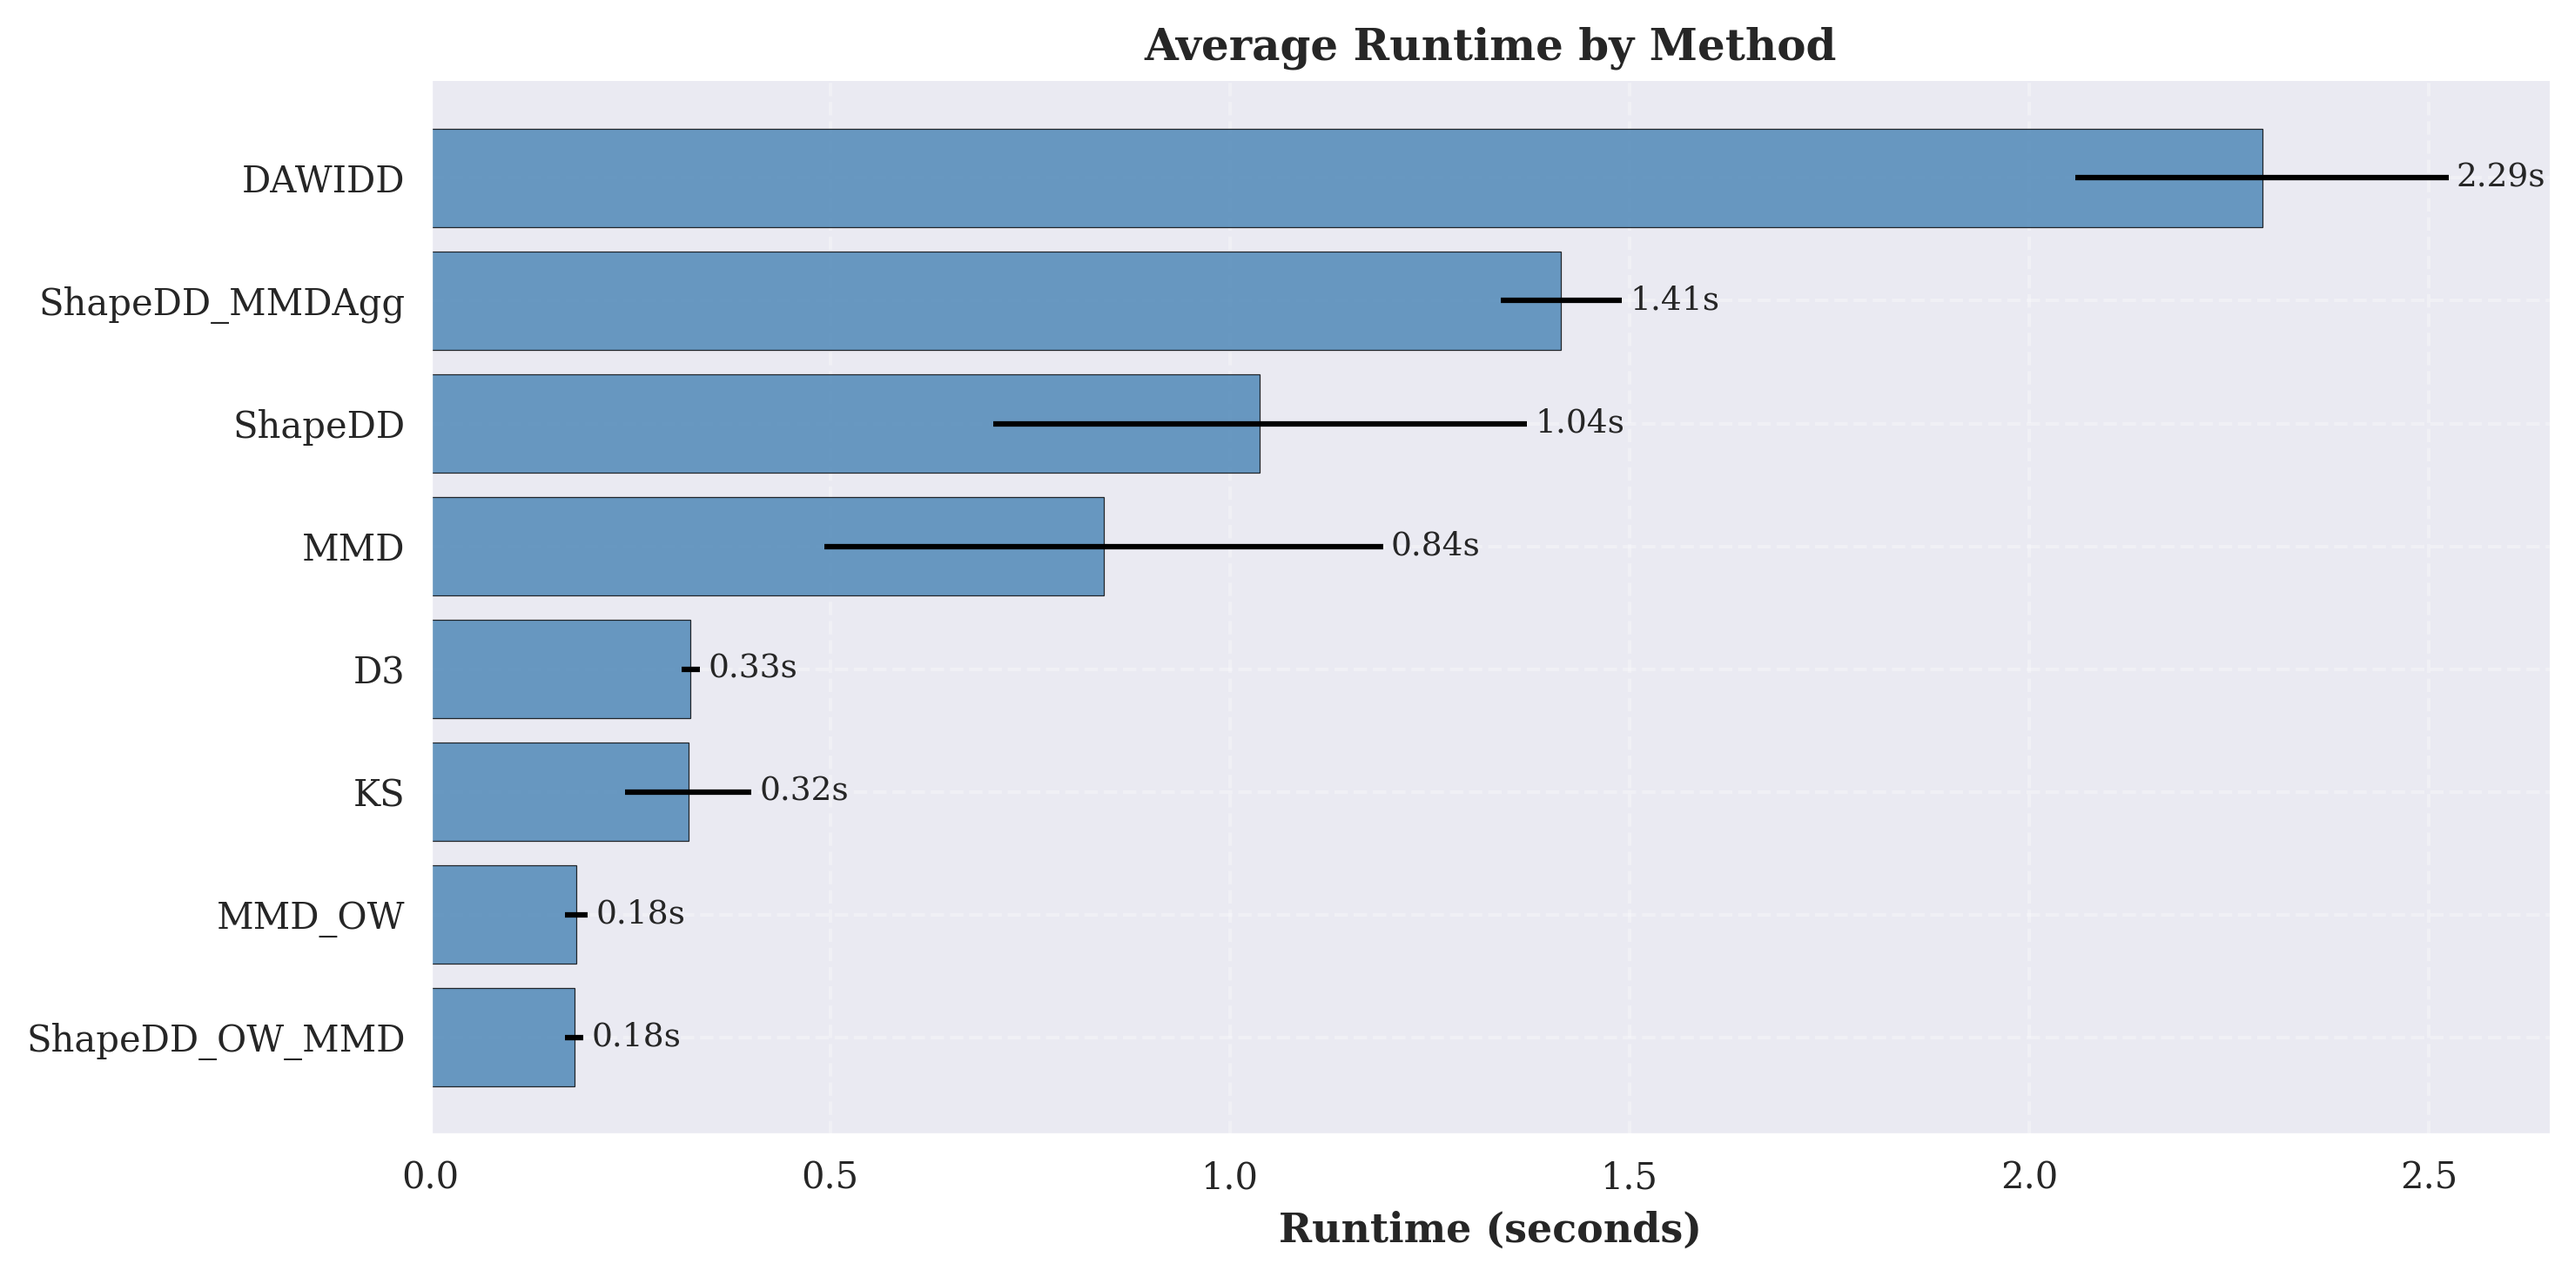
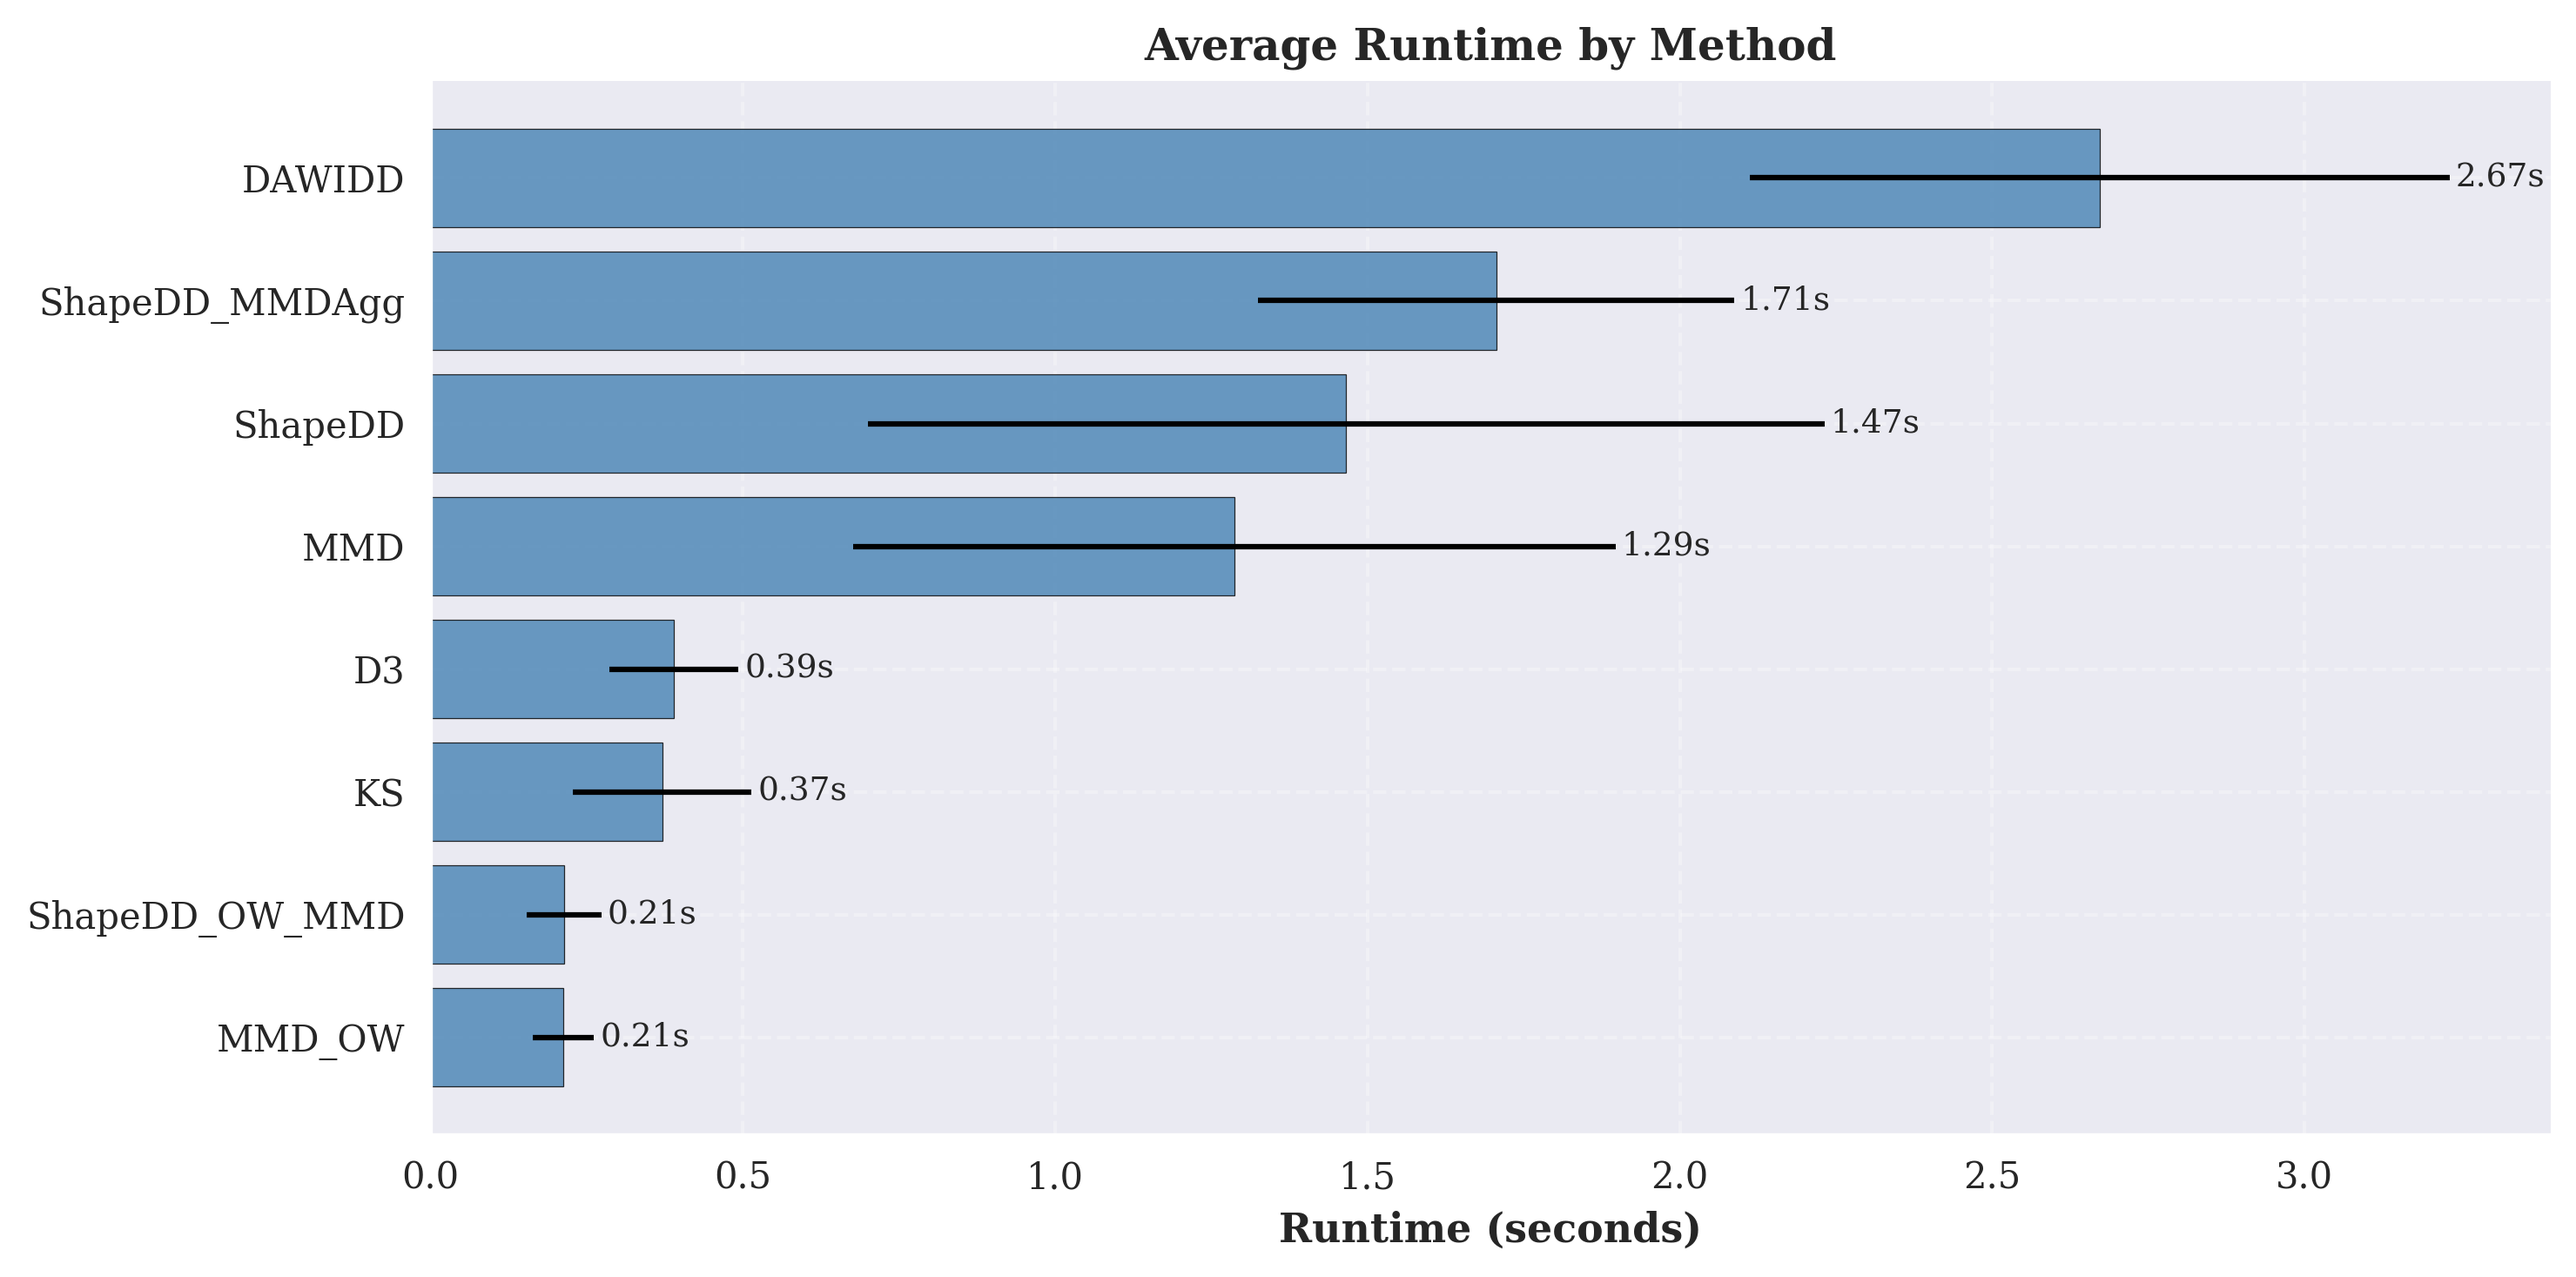
docs: update latest results for performance benchmarks

diff --git a/experiments/drift_detection_benchmark/publication_figures/table_II_f1_by_dataset.tex b/experiments/drift_detection_benchmark/publication_figures/table_II_f1_by_dataset.tex
@@ -1,19 +1,19 @@
 \begin{table}[htbp]
 \caption{F1-Score by method and dataset. Best scores per column are shown in \textbf{bold}. Methods ranked by mean F1-Score.}
 \label{tab:f1_by_dataset}
-\begin{tabular}{clcccccccccc}
+\begin{tabular}{clccccccccccc}
 \toprule
-Dataset & Rank & gaussian_shift_moderate & gen_random_mild & gen_random_moderate & gen_random_severe & gen_random_ultra_severe & led_abrupt & rbf_slow & rbfblips & stagger & Mean \\
-Method &  &  &  &  &  &  &  &  &  &  &  \\
+Dataset & Rank & gaussian_shift_moderate & gen_random_mild & gen_random_moderate & gen_random_severe & gen_random_ultra_severe & hyperplane & led_abrupt & rbfblips & stagger & standard_sea & Mean \\
+Method &  &  &  &  &  &  &  &  &  &  &  &  \\
 \midrule
-MMD_OW & 1 & \textbf{0.998} & 0.126 & \textbf{0.830} & 0.876 & 0.907 & 0.063 & 0.000 & 0.956 & 0.998 & \textbf{0.639} \\
-ShapeDD_OW_MMD & 2 & 0.980 & 0.121 & 0.772 & 0.899 & 0.892 & 0.026 & 0.000 & 0.920 & 0.994 & 0.623 \\
-D3 & 3 & \textbf{0.998} & 0.012 & 0.249 & 0.959 & 0.959 & 0.000 & 0.000 & \textbf{1.000} & 0.998 & 0.575 \\
-ShapeDD_MMDAgg & 4 & 0.924 & 0.000 & 0.154 & \textbf{0.973} & \textbf{0.971} & 0.000 & 0.000 & \textbf{1.000} & \textbf{1.000} & 0.558 \\
-MMD & 5 & 0.627 & 0.576 & 0.674 & 0.591 & 0.578 & 0.122 & 0.138 & 0.602 & 0.639 & 0.505 \\
-DAWIDD & 6 & 0.590 & \textbf{0.594} & 0.658 & 0.583 & 0.576 & 0.140 & 0.135 & 0.570 & 0.583 & 0.492 \\
-ShapeDD & 7 & 0.595 & 0.534 & 0.590 & 0.528 & 0.519 & \textbf{0.167} & 0.156 & 0.553 & 0.582 & 0.469 \\
-KS & 8 & 0.294 & 0.337 & 0.402 & 0.385 & 0.385 & 0.073 & \textbf{0.217} & 0.301 & 0.389 & 0.309 \\
+MMD_OW & 1 & \textbf{0.998} & 0.126 & \textbf{0.830} & 0.876 & 0.907 & 0.000 & 0.063 & 0.956 & 0.998 & 0.000 & \textbf{0.575} \\
+ShapeDD_OW_MMD & 2 & 0.980 & 0.121 & 0.772 & 0.899 & 0.892 & 0.000 & 0.026 & 0.920 & 0.994 & 0.012 & 0.562 \\
+D3 & 3 & \textbf{0.998} & 0.012 & 0.249 & 0.959 & 0.959 & 0.000 & 0.000 & \textbf{1.000} & 0.998 & 0.000 & 0.518 \\
+ShapeDD_MMDAgg & 4 & 0.924 & 0.000 & 0.154 & \textbf{0.973} & \textbf{0.971} & 0.067 & 0.000 & \textbf{1.000} & \textbf{1.000} & 0.000 & 0.509 \\
+MMD & 5 & 0.629 & 0.581 & 0.672 & 0.590 & 0.577 & 0.184 & 0.118 & 0.604 & 0.639 & 0.157 & 0.475 \\
+DAWIDD & 6 & 0.592 & \textbf{0.598} & 0.664 & 0.584 & 0.577 & 0.141 & 0.145 & 0.570 & 0.585 & 0.141 & 0.460 \\
+ShapeDD & 7 & 0.597 & 0.531 & 0.588 & 0.526 & 0.517 & 0.196 & \textbf{0.171} & 0.553 & 0.581 & 0.145 & 0.440 \\
+KS & 8 & 0.294 & 0.337 & 0.402 & 0.385 & 0.385 & \textbf{0.224} & 0.073 & 0.301 & 0.389 & \textbf{0.200} & 0.299 \\
 \bottomrule
 \end{tabular}
 \end{table}

diff --git a/experiments/drift_detection_benchmark/publication_figures/table_I_comprehensive_performance.tex b/experiments/drift_detection_benchmark/publication_figures/table_I_comprehensive_performance.tex
@@ -5,14 +5,14 @@
 \toprule
 Rank & Method & F1 ($\mu \pm \sigma$) & Precision & Recall & MTTD & TP & FP & FN \\
 \midrule
-1 & MMD_OW & $\mathbf{0.639 \pm 0.419}$ & \textbf{0.696} & 0.643 & 23.000 & 1735 & 222 & 965 \\
-2 & ShapeDD_OW_MMD & $0.623 \pm 0.417$ & 0.683 & 0.616 & 20.000 & 1664 & 199 & 1036 \\
-3 & D3 & $0.575 \pm 0.466$ & 0.656 & 0.556 & \textbf{14.000} & 1501 & 0 & 1199 \\
-4 & ShapeDD_MMDAgg & $0.558 \pm 0.471$ & 0.610 & 0.555 & 18.000 & 1499 & 54 & 1201 \\
-5 & MMD & $0.505 \pm 0.219$ & 0.387 & 0.768 & 31.000 & 2074 & 2959 & 626 \\
-6 & DAWIDD & $0.492 \pm 0.207$ & 0.374 & 0.771 & 33.000 & 2081 & 3167 & 619 \\
-7 & ShapeDD & $0.469 \pm 0.183$ & 0.340 & 0.788 & 31.000 & 2127 & 3867 & 573 \\
-8 & KS & $0.309 \pm 0.112$ & 0.202 & \textbf{0.821} & 29.000 & 2217 & 8801 & 483 \\
+1 & MMD_OW & $\mathbf{0.576 \pm 0.442}$ & \textbf{0.627} & 0.578 & 23.000 & 1735 & 222 & 1265 \\
+2 & ShapeDD_OW_MMD & $0.562 \pm 0.436$ & 0.620 & 0.555 & 20.000 & 1666 & 216 & 1334 \\
+3 & D3 & $0.517 \pm 0.475$ & 0.590 & 0.500 & \textbf{14.000} & 1501 & 0 & 1499 \\
+4 & ShapeDD_MMDAgg & $0.509 \pm 0.472$ & 0.562 & 0.504 & 19.000 & 1513 & 106 & 1487 \\
+5 & MMD & $0.475 \pm 0.229$ & 0.368 & 0.713 & 32.000 & 2139 & 3226 & 861 \\
+6 & DAWIDD & $0.460 \pm 0.222$ & 0.352 & 0.710 & 34.000 & 2130 & 3421 & 870 \\
+7 & ShapeDD & $0.440 \pm 0.196$ & 0.322 & 0.731 & 31.000 & 2193 & 4195 & 807 \\
+8 & KS & $0.299 \pm 0.114$ & 0.197 & \textbf{0.775} & 29.000 & 2326 & 9397 & 674 \\
 \bottomrule
 \end{tabular}
 \end{table}

diff --git a/experiments/drift_detection_benchmark/publication_figures/table_III_runtime_stats.tex b/experiments/drift_detection_benchmark/publication_figures/table_III_runtime_stats.tex
@@ -6,14 +6,14 @@
  & Mean (s) & Std (s) & Min (s) & Max (s) & Throughput (samples/s) \\
 Method &  &  &  &  &  \\
 \midrule
-ShapeDD_OW_MMD & 0.179700 & 0.011400 & 0.156200 & 0.251800 & 55648 \\
-MMD_OW & 0.182300 & 0.014300 & 0.154700 & 0.257700 & 54855 \\
-KS & 0.322400 & 0.078700 & 0.230800 & 0.536900 & 31017 \\
-D3 & 0.325300 & 0.011700 & 0.307400 & 0.396100 & 30741 \\
-MMD & 0.842200 & 0.349300 & 0.356900 & 2.391700 & 11874 \\
-ShapeDD & 1.037600 & 0.334000 & 0.468400 & 2.802400 & 9638 \\
-ShapeDD_MMDAgg & 1.414500 & 0.075600 & 1.285200 & 1.794700 & 7070 \\
-DAWIDD & 2.291500 & 0.233300 & 1.932500 & 4.245200 & 4364 \\
+MMD_OW & 0.212700 & 0.048700 & 0.156900 & 0.376500 & 47015 \\
+ShapeDD_OW_MMD & 0.213800 & 0.059500 & 0.153700 & 0.469000 & 46773 \\
+KS & 0.371000 & 0.143000 & 0.180000 & 1.085700 & 26954 \\
+D3 & 0.389200 & 0.103500 & 0.305700 & 0.957300 & 25694 \\
+MMD & 1.286300 & 0.610500 & 0.350800 & 4.692500 & 7774 \\
+ShapeDD & 1.465500 & 0.766000 & 0.506800 & 5.929100 & 6824 \\
+ShapeDD_MMDAgg & 1.706000 & 0.381600 & 1.344100 & 3.216000 & 5862 \\
+DAWIDD & 2.672000 & 0.560100 & 1.946900 & 5.108300 & 3743 \\
 \bottomrule
 \end{tabular}
 \end{table}

diff --git a/experiments/drift_detection_benchmark/publication_figures/table_IV_statistical_significance.tex b/experiments/drift_detection_benchmark/publication_figures/table_IV_statistical_significance.tex
@@ -6,16 +6,16 @@ Methods connected by bars in the CD diagram are not significantly different.}
 \toprule
 Method & Average Rank & Rank \\
 \midrule
-MMD_OW & 3.500 & 1 \\
-MMD & 4.050 & 2 \\
-ShapeDD_MMDAgg & 4.300 & 3 \\
-D3 & 4.300 & 4 \\
-ShapeDD_OW_MMD & 4.300 & 5 \\
-DAWIDD & 4.650 & 6 \\
-ShapeDD & 4.950 & 7 \\
-KS & 5.950 & 8 \\
+MMD_OW & 3.864 & 1 \\
+MMD & 3.955 & 2 \\
+ShapeDD_MMDAgg & 4.409 & 3 \\
+ShapeDD_OW_MMD & 4.409 & 4 \\
+DAWIDD & 4.500 & 5 \\
+D3 & 4.591 & 6 \\
+ShapeDD & 4.773 & 7 \\
+KS & 5.500 & 8 \\
 \midrule
-\multicolumn{3}{l}{Critical Difference (CD) = 3.320} \\
+\multicolumn{3}{l}{Critical Difference (CD) = 3.166} \\
 \bottomrule
 \end{tabular}
 \end{table}
